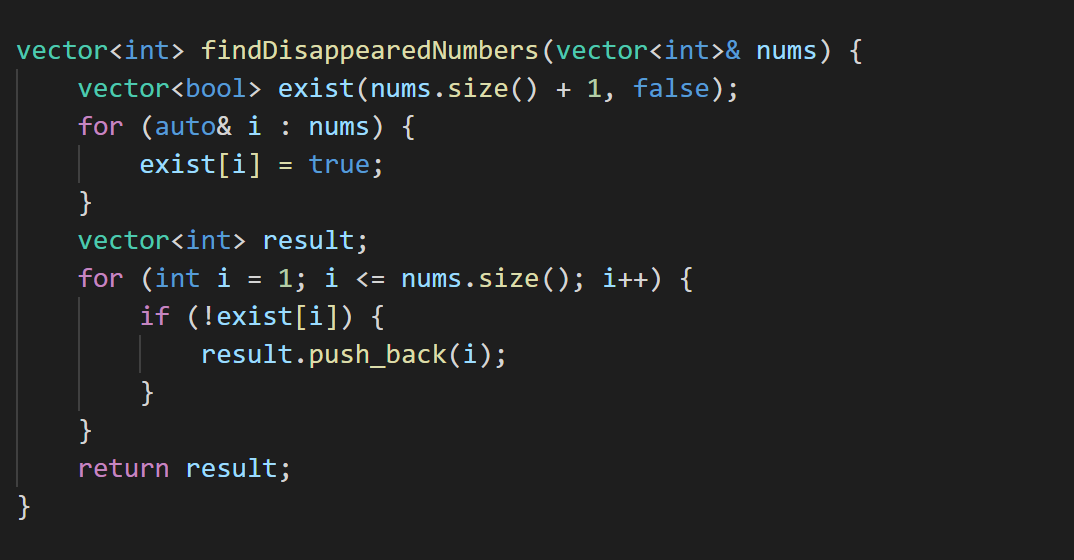
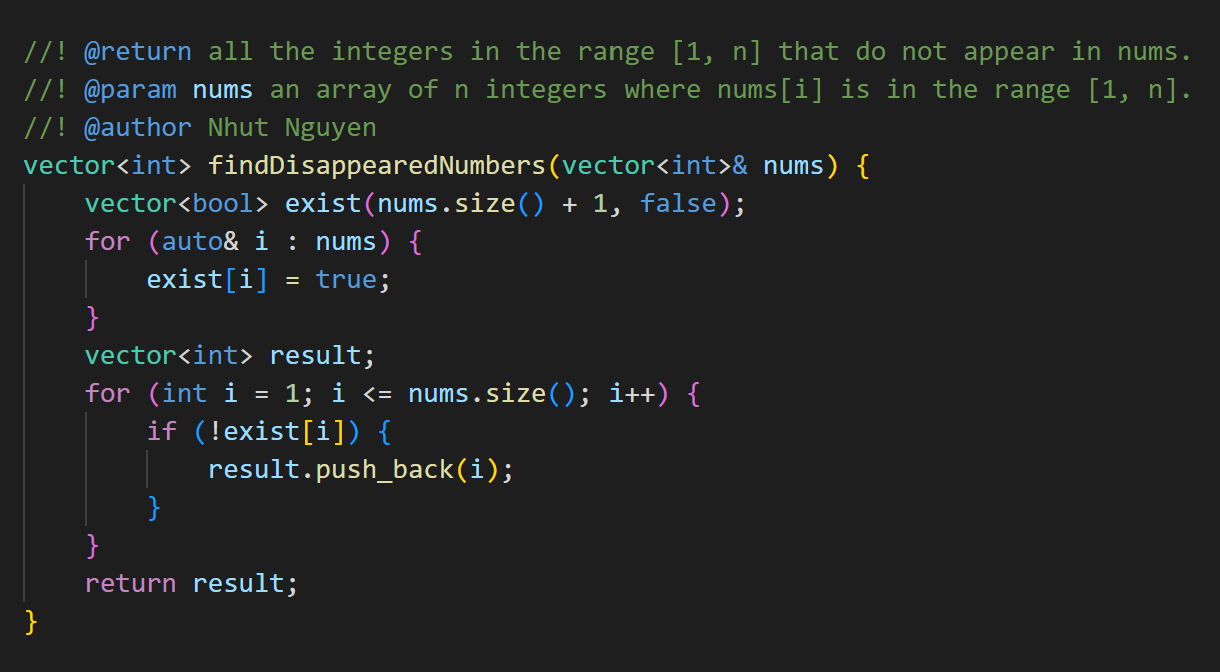
adjust heading levels

diff --git a/448. Find All Numbers Disappeared in an Array/448_Find_All_Numbers_Disappeared_in_an_Array.cpp b/448. Find All Numbers Disappeared in an Array/448_Find_All_Numbers_Disappeared_in_an_Array.cpp
@@ -2,6 +2,9 @@
 #include <iostream>
 using namespace std;
 
+//! @return all the integers in the range [1, n] that do not appear in nums.
+//! @param nums an array of n integers where nums[i] is in the range [1, n].
+//! @author Nhut Nguyen
 vector<int> findDisappearedNumbers(vector<int>& nums) {        
     vector<bool> exist(nums.size() + 1, false);        
     for (auto& i : nums) {

diff --git a/448. Find All Numbers Disappeared in an Array/README.md b/448. Find All Numbers Disappeared in an Array/README.md
@@ -1,30 +1,30 @@
-# 448. Find All Numbers Disappeared in an Array
+## 448. Find All Numbers Disappeared in an Array
 
-## Problem statement
+### Problem statement
 Given an array `nums` of `n` integers where `nums[i]` is in the range `[1, n]`, return an array of all the integers in the range `[1, n]` that do not appear in `nums`.
 
-### Example 1
+#### Example 1
 ```plain
 Input: nums = [4,3,2,7,8,2,3,1]
 Output: [5,6]
 ```
 
-### Example 2
+#### Example 2
 ```plain
 Input: nums = [1,1]
 Output: [2]
 ```
 
-### Constraints
+#### Constraints
 * `n == nums.length`.
 * `1 <= n <= 10^5`.
 * `1 <= nums[i] <= n`.
  
 
-### Follow up
+#### Follow up
 Could you do it without extra space and in `O(n)` runtime? You may assume the returned list does not count as extra space.
 
-## Solution: Marking the appearances
+### Solution: Marking the appearances
 
 ```cpp
 #include <vector>
@@ -65,9 +65,10 @@ Output:
 [2,]
 ```
 
-### Complexity
+#### Complexity
 * Runtime: `O(N)`, where `N = nums.length`.
 * Extra space: `O(1)` ([`vector<bool>`](https://en.cppreference.com/w/cpp/container/vector_bool) is optimized for space efficiency).
 
-## References
+### References
 * [https://leetcode.com/problems/find-all-numbers-disappeared-in-an-array/](https://leetcode.com/problems/find-all-numbers-disappeared-in-an-array/)
+* [https://www.leetsolve.com/448-find-all-numbers-disappeared-in-an-array](https://www.leetsolve.com/448-find-all-numbers-disappeared-in-an-array)
